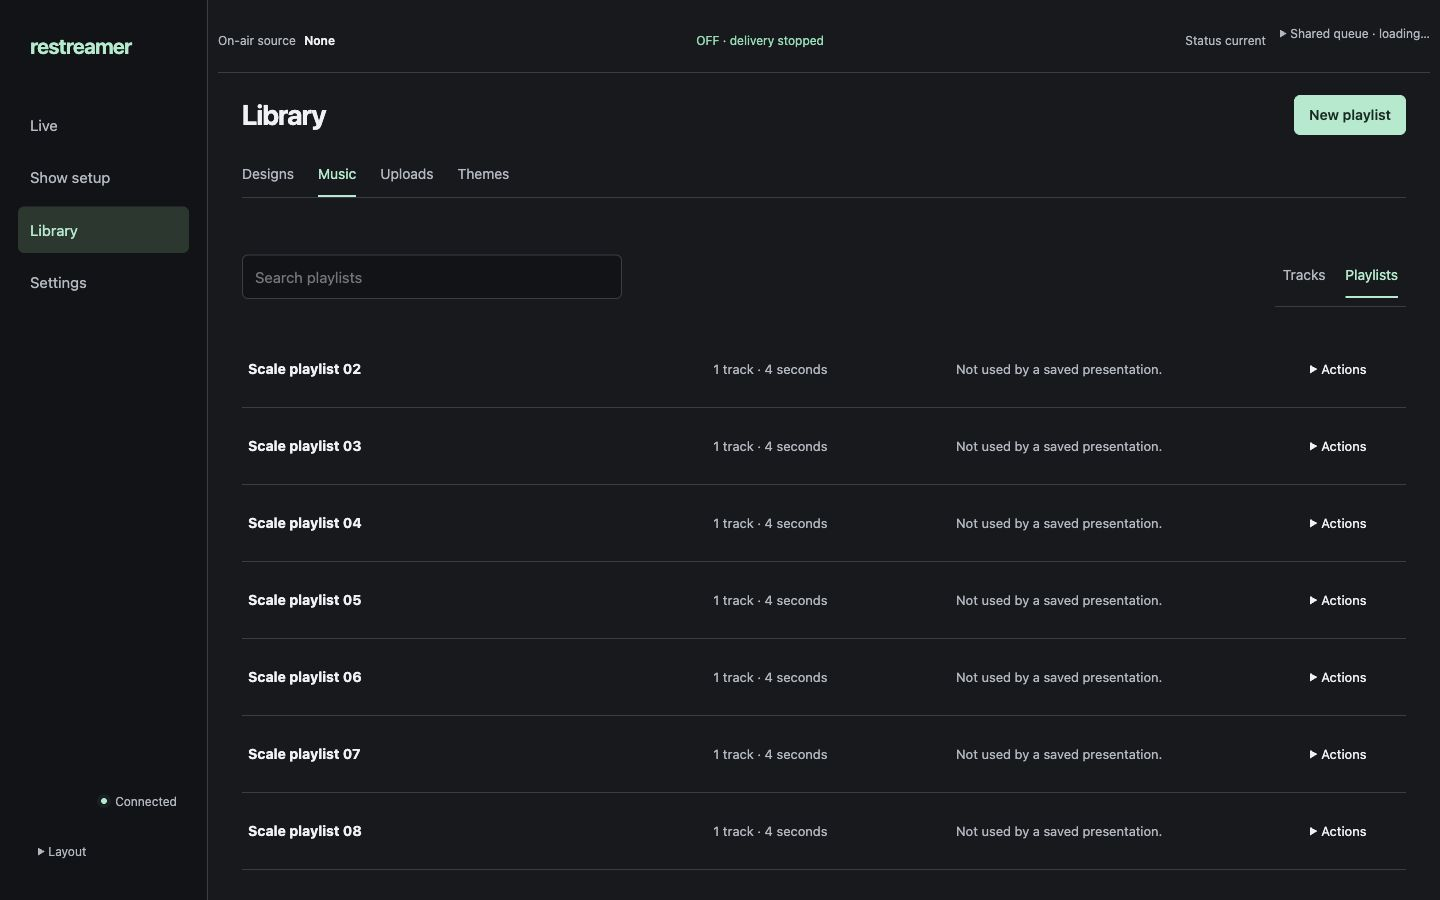
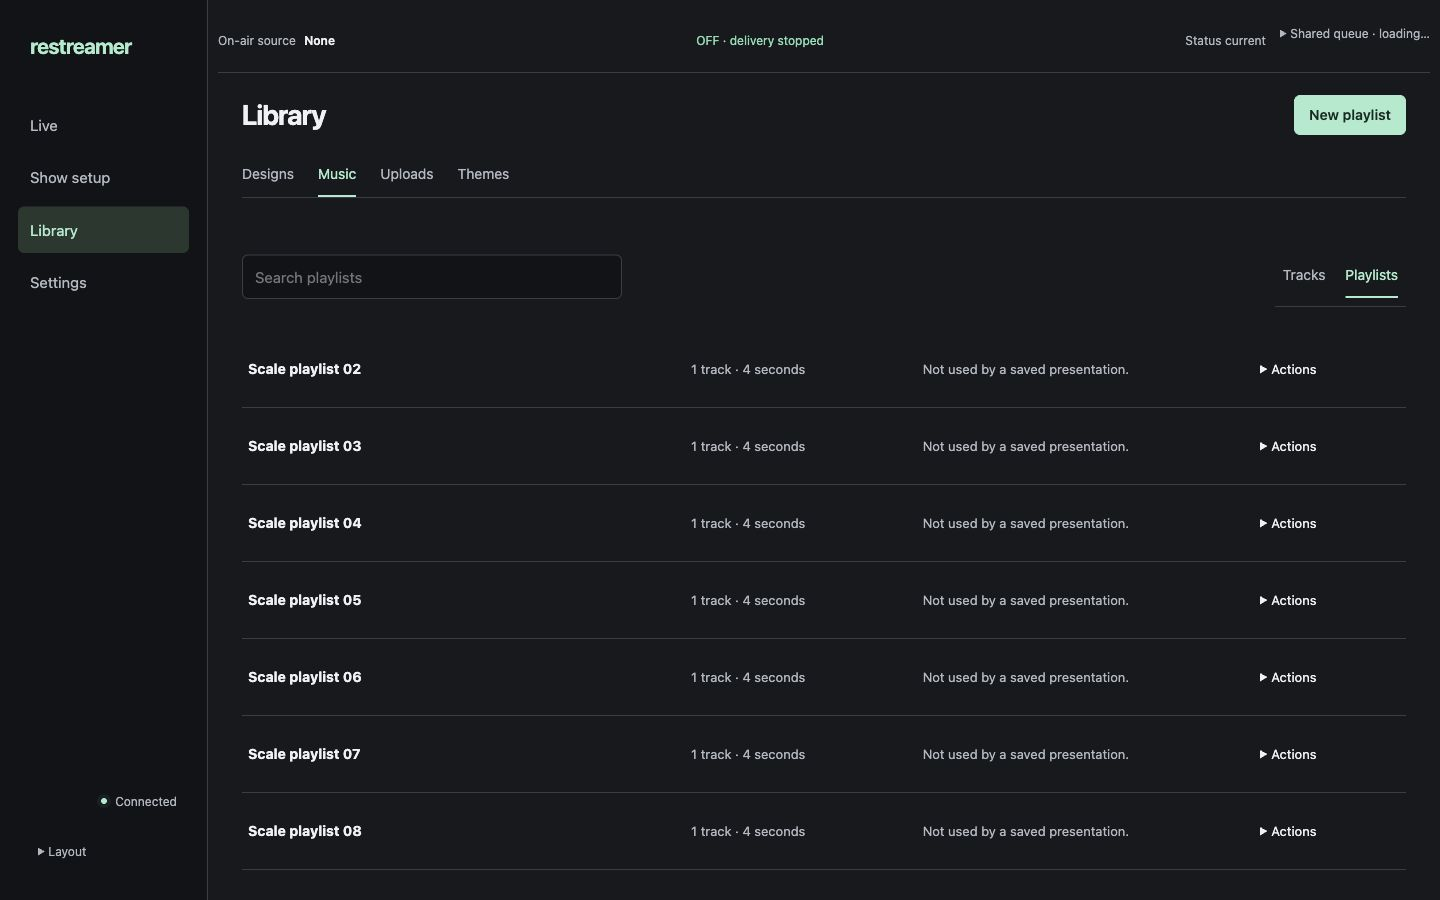
Guard playlist row widths and refresh thumbnails after profile changes

diff --git a/internal/relay/web/studio-system.css b/internal/relay/web/studio-system.css
@@ -3,7 +3,7 @@
 .workspace-header,.studio-app .workspace-header,body[data-workspace=live] .workspace-header{position:fixed;inset:0 auto 0 0;width:var(--sidebar);height:100dvh;display:flex;flex-direction:column;align-items:stretch;justify-content:flex-start;gap:24px;padding:30px 18px;background:#111316;border:0;border-right:1px solid var(--border);z-index:40}.workspace-header .brand{font-size:21px;font-weight:650;padding:0 12px;white-space:normal}.workspace-nav{display:flex;flex-direction:column;gap:6px;width:100%;margin:16px 0 auto}.workspace-nav a{display:block;color:var(--muted);text-decoration:none;font-size:15px;padding:12px;border:0;border-radius:6px;min-height:46px}.workspace-nav a:hover{background:#202328;color:var(--text)}.workspace-nav a[aria-current=page]{background:#293730;color:var(--cyan);border:0}.workspace-header .connection{font-size:12px;white-space:normal;padding:0 12px}.layout-controls{padding:0 12px}.layout-controls>summary{border:0;color:var(--muted)}.layout-options{left:0;right:auto;top:auto;bottom:100%}
 .workspace-status{position:static!important;background:transparent;border:0;border-bottom:1px solid var(--border);padding:0 0 16px;margin-bottom:22px;min-height:0;gap:14px;font-size:12px;flex-wrap:wrap}.workspace-status>span:first-child{display:none}.workspace-status strong{color:var(--text)}#workspace-freshness{margin-left:auto;font-size:12px}.workspace-alert{position:static!important;background:#302b22;border:1px solid #66543b;border-radius:6px;padding:12px;margin:0 0 16px;font-size:14px}.workspace-alert.error,.notice{background:#352626;color:var(--red)}.panel{background:transparent;border:0;border-radius:0;box-shadow:none;padding:0}.preview-button,.danger-button,.primary-button{display:inline-flex;align-items:center;justify-content:center;gap:6px;min-height:40px;padding:8px 14px;border:1px solid var(--border);border-radius:6px;font:inherit;font-size:14px;color:var(--text);background:transparent;text-decoration:none;cursor:pointer}.primary-button,#generate-design{background:var(--cyan);color:#112b21;border-color:var(--cyan);font-weight:600}.danger-button{color:var(--red);border-color:#80544e}.preview-button:hover{background:#292d33}.preview-button:disabled,.primary-button:disabled{opacity:.45;cursor:not-allowed}.stage-help,.library-help,.profile-help,.generator-editor small{color:var(--muted);font-size:13px;line-height:1.5}.generator-grid,.studio-app .generator-grid{display:block;min-width:0;overflow:auto;flex:1}.studio-app>main{height:100dvh;display:flex;flex-direction:column;overflow:hidden}.studio-collections{flex-shrink:0;display:flex;gap:24px;border:0;border-bottom:1px solid var(--border);padding:0;margin:0 0 24px}.studio-collections>button,.studio-tabs button,.remote-panels button,.live-secondary-tabs button{background:transparent!important;border:0;border-bottom:2px solid transparent;border-radius:0;color:var(--muted);padding:10px 0;font-size:14px;min-height:44px}.studio-collections>button[aria-current=page],.studio-tabs button[aria-pressed=true],.remote-panels button[aria-pressed=true],.live-secondary-tabs button[aria-pressed=true]{color:var(--cyan);border-bottom-color:var(--cyan)}body[data-workspace=setup]>.studio-collections,body[data-workspace=setup] .studio-collections,body[data-workspace=editor] .studio-collections{display:none}.studio-tabs{display:flex;gap:20px;border-bottom:1px solid var(--border);margin-bottom:16px}.studio-queue{position:relative;flex-shrink:0;align-self:flex-end;font-size:12px;margin:0 0 14px;background:transparent;border:0;padding:0}.studio-queue[open]{padding:16px;background:var(--panel);width:min(100%,600px)}.studio-queue summary{min-height:32px}.collection-heading{display:flex;align-items:center;gap:12px;margin-bottom:22px}.collection-heading h1{margin-right:auto}.search-field{display:block;max-width:400px;margin:0 0 22px;color:var(--muted);font-size:13px}.search-field input{display:block;width:100%;margin-top:6px}.brb-design-link{display:flex;justify-content:space-between;padding:18px 0;border-bottom:1px solid var(--border);text-decoration:none}.brb-design-link span{color:var(--muted);font-size:13px}.design-row{display:flex;border-bottom:1px solid var(--border);align-items:center;gap:16px;padding:8px 0}.design-row>button:first-child{flex:1;text-align:left;border:0;background:transparent;padding:10px;color:var(--text);font-size:16px}.design-row small{display:block;color:var(--muted);font-size:13px}.design-row .delete-button{background:none;color:var(--muted);border:0;min-height:40px}.generator-sidebar{width:100%}.generator-sidebar form{padding:24px;background:var(--panel);border-radius:6px;margin:0 0 24px;max-width:600px}label{color:var(--muted)}input:not([type=checkbox]):not([type=range]),select,textarea{background:#111316;border:1px solid var(--border);border-radius:6px;padding:10px 12px;color:var(--text);max-width:100%}summary{cursor:pointer;min-height:36px}dialog{background:var(--panel);color:var(--text);border:1px solid var(--border);border-radius:12px;max-width:calc(100vw - 32px);max-height:90dvh;overflow:auto;padding:24px}dialog::backdrop{background:#000a}.panel-heading{margin-bottom:20px}.show-cards{display:flex;flex-direction:column;gap:0}.show-card{display:grid;grid-template-columns:140px minmax(180px,1fr) auto;gap:6px 24px;align-items:center;border:0;border-bottom:1px solid var(--border);background:transparent;padding:22px 0;border-radius:0}.show-card h2{grid-column:2;margin:0;font-size:14px;color:var(--muted)}.show-card .show-poster{grid-column:1;grid-row:1/5;width:140px;height:79px;object-fit:contain;aspect-ratio:16/9;border-radius:6px;background:#101214}.show-card h3{grid-column:2;margin:0;font-size:19px}.show-card p{grid-column:2;margin:0}.show-card .generator-actions{grid-column:3;grid-row:1/5;max-width:200px;justify-content:flex-end}.show-card .generator-actions a{border:0}.show-card .assignment-note{font-size:12px;color:var(--muted)}.show-dialog{width:760px}.render-choice{border-bottom:1px solid var(--border);background:transparent;display:grid;grid-template-columns:160px minmax(0,1fr);gap:20px;padding:18px 0}.render-choice video{width:160px;aspect-ratio:16/9}.render-choice h3{margin:0 0 6px}.render-choice button{margin:4px 8px 4px 0}.render-technical{font-size:12px;color:var(--muted)}.render-group{border:0;background:none}.render-group>summary{font-size:16px}.render-group h3{font-size:16px}.render-older{margin:12px 0}.generator-asset,.music-track,.playlist-row{border:0;border-bottom:1px solid var(--border);border-radius:0;background:none;padding:16px 0;margin:0}.generator-asset h4{font-size:16px;margin:0 0 6px}#music-list,#asset-list,#music-playlists>div{display:block!important}#music-playlists{margin-top:24px}#music-playlists form{max-width:650px;background:var(--panel);padding:24px;border-radius:6px}.music-track{display:block}.studio-media-grid,.studio-template-grid{display:grid;grid-template-columns:minmax(0,1fr);gap:24px}.media-upload-pane form{max-width:600px}.media-list-pane{min-width:0}.collection-mobile-note{color:var(--muted)}
 #shared-editor-nav{margin-bottom:12px;color:var(--muted);font-size:13px}.studio-editor-heading{gap:12px;align-items:center}.studio-editor-heading h2{font-size:23px}.studio-editor-heading #back-to-designs{display:none}.studio-editor-heading #save-state{margin-left:auto;font-size:13px;color:var(--muted)}.studio-editor-grid{height:calc(100dvh - 250px);min-height:320px}.studio-scenes,.studio-inspector{background:transparent;border:0;min-width:0}.studio-scenes{padding:0 16px 0 0}.studio-inspector{padding:0 0 0 20px}.studio-monitor{min-width:0;background:transparent}.studio-monitor-scroll,.studio-inspector-scroll{padding:0;min-width:0}.studio-inspector label{font-size:13px}.studio-inspector input,.studio-inspector select,.studio-inspector textarea{width:100%}.studio-inspector section{margin-bottom:20px}.studio-scenes .stage-help{font-size:12px}#scene-list button{background:var(--panel);border-color:var(--border)}#scene-preview,#generated-video{border-radius:7px;background:#101214;max-height:52dvh;object-fit:contain}.layout-divider{background:transparent}.layout-divider::after{background:var(--border)}.generator-summary,.generation-summary{font-size:13px}.generator-job{padding:16px 0;border:0;border-bottom:1px solid var(--border);background:none}.generator-job>p{font-size:13px}.generator-job .render-thumbnail{max-width:180px}#generation-summary{display:grid;grid-template-columns:130px 1fr;gap:8px}.theme-workspace{gap:32px}.theme-settings{max-width:480px}.theme-preview-surface{background:#111316;border-radius:7px}.theme-header{margin-bottom:24px}.theme-views{gap:12px}.theme-views button{border:0;border-bottom:2px solid transparent;border-radius:0}.theme-views [aria-pressed=true]{border-bottom-color:var(--cyan);background:none}.context-resource-link{font-size:13px}.settings-workspace{max-width:980px;margin:0}.settings-desktop{display:block}.settings-tabs{display:flex;gap:24px;border-bottom:1px solid var(--border);margin-bottom:28px}.settings-tabs a{color:var(--muted);text-decoration:none;padding:10px 0;border-bottom:2px solid transparent}.settings-tabs a[aria-current=page]{color:var(--cyan);border-bottom-color:var(--cyan)}.settings-desktop>.panel{max-width:850px}.settings-desktop form{max-width:700px}.settings-workspace h1{margin-bottom:26px}
-body[data-workspace=live]>main{padding-top:24px}.live-primary{padding:0 24px 0 0;gap:18px;min-width:0}.live-sidebar{padding:0 0 0 24px;border:0;min-width:0}.live-primary .broadcast-panel{padding:0}.live-primary h2{font-size:16px}.live-program-screen{background:#0c0e10;border-radius:7px}.live-primary .stage-panel{border:0;padding:0}.stage-buttons{display:grid;grid-template-columns:repeat(4,minmax(0,1fr));gap:10px}.stage-button{background:var(--panel);border:1px solid var(--border);font-size:14px;min-height:55px;border-radius:6px;padding:10px}.stage-button small{font-size:11px;font-weight:400}.stage-button[aria-pressed=true]{color:var(--cyan);border-color:var(--cyan);background:#293730}.stage-summary{display:none}.stage-help:empty{display:none}.live-clips-heading{flex-wrap:wrap;gap:8px}.live-clips-heading h3{margin-right:auto}.live-clips-heading a{font-size:12px;padding:6px;border:0}.clip-shortcuts{display:flex;max-width:100%;overflow-x:auto;overscroll-behavior-x:contain}.clip-shortcuts>*{flex:0 0 130px;min-width:0}.stage-secondary{align-items:center}.stage-secondary-actions{flex-wrap:wrap}#stage-stop{margin-left:auto}.stage-secondary #rehearsal-label{font-size:12px}.live-disclosure{border:0;border-bottom:1px solid var(--border);background:transparent}.live-readiness{background:transparent;border:0}.live-readiness h2{font-size:15px}.live-readiness dt,.live-readiness dd{font-size:13px}.target-panel{background:transparent;border:0;border-bottom:1px solid var(--border)}.monitor-caption,#stage-help{font-size:12px}#broadcast-status{font-size:13px}.studio-mobile-note{display:none}
+body[data-workspace=live]>main{padding-top:24px}.live-primary{padding:0 24px 0 0;gap:18px;min-width:0}.live-sidebar{padding:0 0 0 24px;border:0;min-width:0}.live-primary .broadcast-panel{padding:0}.live-primary h2{font-size:16px}.live-program-screen{background:#0c0e10;border-radius:7px}.live-primary .stage-panel{border:0;padding:0}.stage-buttons{display:grid;grid-template-columns:repeat(4,minmax(0,1fr));gap:10px}.stage-button{background:var(--panel);border:1px solid var(--border);font-size:14px;min-height:55px;border-radius:6px;padding:10px}.stage-button small{font-size:11px;font-weight:400}.stage-button[aria-pressed=true]{color:var(--cyan);border-color:var(--cyan);background:#293730}.stage-summary{display:none}.stage-help:empty{display:none}.live-clips-heading{flex-wrap:wrap;gap:8px}.live-clips-heading h3{margin-right:auto}.live-clips-heading a{font-size:12px;padding:6px;border:0}.clip-shortcuts{display:flex;max-width:100%;overflow-x:auto;overscroll-behavior-x:contain}.clip-shortcuts>*{flex:0 0 130px;min-width:0}.stage-secondary{align-items:center}.stage-secondary-actions{flex-wrap:wrap}#stage-stop{margin-left:auto}.live-disclosure{border:0;border-bottom:1px solid var(--border);background:transparent}.live-readiness{background:transparent;border:0}.live-readiness h2{font-size:15px}.live-readiness dt,.live-readiness dd{font-size:13px}.target-panel{background:transparent;border:0;border-bottom:1px solid var(--border)}.monitor-caption,#stage-help{font-size:12px}#broadcast-status{font-size:13px}.studio-mobile-note{display:none}
 @media(min-width:1200px){.studio-editor-grid{grid-template-columns:180px 10px minmax(0,1fr) 10px 300px}}
 @media(min-width:601px) and (max-width:1199px){:root{--sidebar:170px}body>main{padding-left:calc(var(--sidebar) + 24px);padding-right:24px}.workspace-header{padding:26px 12px}.studio-editor-grid{grid-template-columns:160px minmax(0,1fr)}.studio-inspector{grid-column:1/-1;max-height:330px;overflow:auto;padding:16px 0}.studio-editor-grid>.layout-divider{display:none}.show-card{grid-template-columns:110px minmax(0,1fr);gap:6px 18px}.show-card .show-poster{width:110px;height:62px}.show-card .generator-actions{grid-column:2;grid-row:auto;max-width:none;justify-content:flex-start}.live-secondary-tabs{display:flex;gap:20px}.live-console>.layout-divider{display:none}body[data-workspace=live] .live-console{grid-template-columns:minmax(0,1fr)}.live-console[data-layout-panel=operation]>.live-sidebar,.live-console[data-layout-panel=signals]>.live-primary{display:none}.live-primary,.live-sidebar{padding:0}.live-primary{overflow:auto}.studio-app .generator-grid{overflow:auto}}
 @media(max-width:600px){:root{--sidebar:0px}body>main,.studio-app>main,body[data-workspace=live]>main{height:auto;min-height:100dvh;overflow:visible;padding:76px 18px 100px}.workspace-header,.studio-app .workspace-header,body[data-workspace=live] .workspace-header{inset:0 0 auto 0;width:100%;height:58px;padding:14px 18px;flex-direction:row;align-items:center;border-right:0;border-bottom:1px solid var(--border);gap:8px}.workspace-header .brand{font-size:18px;padding:0;margin-right:auto}.workspace-header .connection{font-size:11px;padding:0;max-width:150px}.workspace-header .workspace-nav{position:fixed;inset:auto 0 0;display:grid;grid-template-columns:repeat(4,minmax(0,1fr));gap:0;background:#111316;border-top:1px solid var(--border);padding:8px 6px calc(8px + env(safe-area-inset-bottom));margin:0;width:100%;order:0}.workspace-nav a{font-size:12px;padding:12px 4px;text-align:center;min-height:44px}.workspace-status{padding:0 0 12px;gap:6px 12px;margin:0 0 16px;font-size:12px}.workspace-status #workspace-source{display:none}#workspace-freshness{display:none}#workspace-mode{font-size:12px}.workspace-alert{font-size:13px;margin-bottom:12px}.workspace-alert-link{font-size:12px}.workspace-status>span:nth-child(2){display:none}.studio-collections{gap:20px;overflow-x:auto;margin-bottom:20px}.studio-collections button{flex-shrink:0}.studio-queue{align-self:flex-start;margin-bottom:10px}.show-card{grid-template-columns:94px minmax(0,1fr);gap:5px 14px;padding:20px 0}.show-card .show-poster{width:94px;height:53px;grid-row:1/4}.show-card h3{font-size:17px}.show-card .generator-actions{grid-column:1/-1;grid-row:auto;justify-content:flex-start;max-width:none;margin-top:8px}.show-card h2{font-size:13px}.show-card .assignment-note{grid-column:1/-1;margin-top:4px}.show-card p{font-size:12px}.panel-heading{gap:12px;flex-wrap:wrap}h1{font-size:25px}.preview-button,.primary-button,.danger-button{min-height:44px}.render-choice{grid-template-columns:minmax(0,1fr);gap:10px}.render-choice video{width:100%}.show-dialog{padding:18px}.render-choice button{font-size:13px}.live-console,.live-primary,.live-sidebar,.live-clips,.stage-panel{min-width:0;max-width:100%}.live-primary,.live-sidebar{padding:0}.live-primary{display:flex;flex-direction:column}.live-primary .broadcast-panel{display:block}.live-primary h2{font-size:16px}.live-program-screen{max-height:none;aspect-ratio:16/9}.stage-buttons{grid-template-columns:repeat(2,minmax(0,1fr));gap:8px}.live-primary .stage-button{min-height:55px}.stage-secondary-actions{flex-wrap:wrap}.stage-secondary-actions button{flex:1}.live-clips-heading{flex-wrap:wrap;min-width:0}.live-clips-heading a{font-size:12px}.live-clips-heading button{font-size:13px}.remote-panels{position:static;padding:0;margin:0 0 18px;gap:20px}.live-secondary-tabs{display:none}.studio-mobile-note{display:none}body[data-workspace=editor] .studio-mobile-note{display:block}.studio-editor-grid{height:auto;display:block;min-height:0}.studio-scenes,.studio-inspector,.studio-panel-switch,#brb-form,#brb-theme-settings{display:none!important}.studio-monitor{padding:0}.collection-heading{flex-wrap:wrap}.collection-heading h1{width:100%}.search-field{max-width:none}input:not([type=checkbox]):not([type=range]),select,textarea{font-size:16px}.settings-tabs{flex-wrap:wrap}.theme-workspace{display:block}.theme-header{display:block}.theme-selection{width:100%}.theme-views{flex-wrap:wrap}.theme-preview-surface{width:100%}}
@@ -41,4 +41,4 @@ body[data-workspace=live]>main{padding-top:24px}.live-primary{padding:0 24px 0 0
 
 .live-primary .stage-panel>.panel-heading{display:none}.live-primary .stage-secondary[hidden]{display:none}.live-primary .stage-panel>.task-disclosure{margin:12px 0}.live-primary .stage-panel>.task-disclosure>.stage-summary{display:flex;gap:20px;justify-content:flex-start}.brb-draft-preview{max-height:45dvh;object-fit:contain;background:#0d0f12}#brb-presentations .studio-tabs{padding-top:0}#editor-heading:focus-visible{outline-color:var(--cyan)}
 
-#music-playlist-list .playlist-row{display:grid;grid-template-columns:minmax(160px,2fr) minmax(120px,1fr) minmax(140px,1.5fr) 90px;gap:20px;align-items:center;border:0;border-bottom:1px solid var(--border);border-radius:0;padding:20px 6px;margin:0}#music-playlist-list .playlist-row h4{font-size:14px;margin:0}#music-playlist-list .playlist-row p{font-size:13px;color:var(--muted);margin:0}.playlist-actions summary{cursor:pointer;font-size:13px;padding:8px 0}.playlist-actions button{margin-top:8px}#music-playlist-list .playlist-row .playlist-actions{margin:0}.playlist-row .playlist-actions[open]{min-width:130px}@media(max-width:800px){#music-playlist-list .playlist-row{grid-template-columns:minmax(0,1fr) auto;gap:8px 16px}#music-playlist-list .playlist-row h4{grid-column:1}#music-playlist-list .playlist-row p{grid-column:1}.playlist-row .playlist-actions{grid-column:2;grid-row:1/4}}
+#music-playlist-list .playlist-row{display:grid;grid-template-columns:minmax(160px,2fr) minmax(120px,1fr) minmax(140px,1.5fr) 140px;gap:20px;align-items:center;border:0;border-bottom:1px solid var(--border);border-radius:0;padding:20px 6px;margin:0}#music-playlist-list .playlist-row h4{font-size:14px;margin:0;min-width:0;overflow-wrap:anywhere}#music-playlist-list .playlist-row p{font-size:13px;color:var(--muted);margin:0}.playlist-actions summary{cursor:pointer;font-size:13px;padding:8px 0}.playlist-actions button{margin-top:8px}#music-playlist-list .playlist-row .playlist-actions{margin:0}.playlist-row .playlist-actions[open]{min-width:0}@media(max-width:800px){#music-playlist-list .playlist-row{grid-template-columns:minmax(0,1fr) auto;gap:8px 16px}#music-playlist-list .playlist-row h4{grid-column:1}#music-playlist-list .playlist-row p{grid-column:1}.playlist-row .playlist-actions{grid-column:2;grid-row:1/4}}

diff --git a/internal/relay/web/generator.js b/internal/relay/web/generator.js
@@ -253,7 +253,7 @@
     schedulePreview();
     loadJobs();
   }
-  let thumbnailSignature = '', thumbnails = new Map();
+  let thumbnailSignature = '', thumbnailProfile = '', thumbnails = new Map();
   const scenePreviewSignature = value => JSON.stringify([value.id,value.stage,value.theme,value.scenes,value.loop_transition,value.ending_fade_seconds]);
   function storeSceneThumbnail(index, bitmap) {
     const thumbnail=document.createElement('canvas');thumbnail.width=160;thumbnail.height=90;
@@ -436,7 +436,8 @@
         }
       }
       const nextThumbnailSignature=scenePreviewSignature(snapshot);
-      if(thumbnailSignature!==nextThumbnailSignature){thumbnails.clear();thumbnailSignature=nextThumbnailSignature;}
+      const nextThumbnailProfile=JSON.stringify(result.profile);
+      if(thumbnailSignature!==nextThumbnailSignature||thumbnailProfile!==nextThumbnailProfile){thumbnails.clear();thumbnailSignature=nextThumbnailSignature;thumbnailProfile=nextThumbnailProfile;}
       renderSceneLength();
       validationIssues = result.issues;
       renderScenes();

diff --git a/internal/relay/web/mobile-remote.css b/internal/relay/web/mobile-remote.css
@@ -35,7 +35,7 @@
   #live-workspace .preview-button,#live-workspace .danger-button,#live-workspace summary,#live-workspace .toggle{min-height:44px}
   #live-workspace summary{display:flex;align-items:center}
   #live-workspace .toggle{min-width:48px}#live-destinations .target-panel .badge{font-size:10px}#live-destinations .target-brief{font-size:11px}
-  #rehearsal-label,.clip-playback-controls .check-label{min-height:44px}.check-label input{width:20px;height:20px}
+  .clip-playback-controls .check-label{min-height:44px}.check-label input{width:20px;height:20px}
   #brb-settings{display:none}
   .prepared-media-drawer button,.prepared-media-drawer select,.prepared-media-drawer input,.prepared-media-drawer summary{min-height:44px}
   .prepared-media-drawer input,.prepared-media-drawer select{font-size:16px}.prepared-media-heading{position:sticky;top:-18px;background:var(--panel);z-index:2;padding-top:8px}

diff --git a/docs/design/ux-review/parity-correction/README.md b/docs/design/ux-review/parity-correction/README.md
@@ -19,6 +19,7 @@ Screenshots are from the isolated copied test fixture on 127.0.0.1:18886, using 
 - Phone 390 × 844: Live, Show setup, Music and open generation activity; no horizontal overflow. Stop remains directly beneath stage buttons. Phone authoring actions stay hidden.
 - Browser checks: Tracks/Playlists switching and filtered deep-link restoration; both Review video actions focus the exact video and start playback; preview-only start/stop confirmations; no captured browser console errors.
 - The browser approval reviewer rejected adding a scene because it could autosave. No browser mutation of that copied design was performed. Latest-result match behavior is covered by automated tests; preview rendering and thumbnails were inspected read-only.
+- Final edge-case pass: long playlist names wrap; expanded playlist actions remain inside the content column (right edge 1400 at a 1440px viewport); thumbnail cache invalidates when the streaming profile changes. Browser keyboard zoom did not apply through the automation interface, so no increased-zoom pass is claimed.
 - Two independent follow-up reviews closed the scoped findings; their reports are retained here. Parent-executed browser checks are attributed separately in the reports.
 
 ## Automated validation
